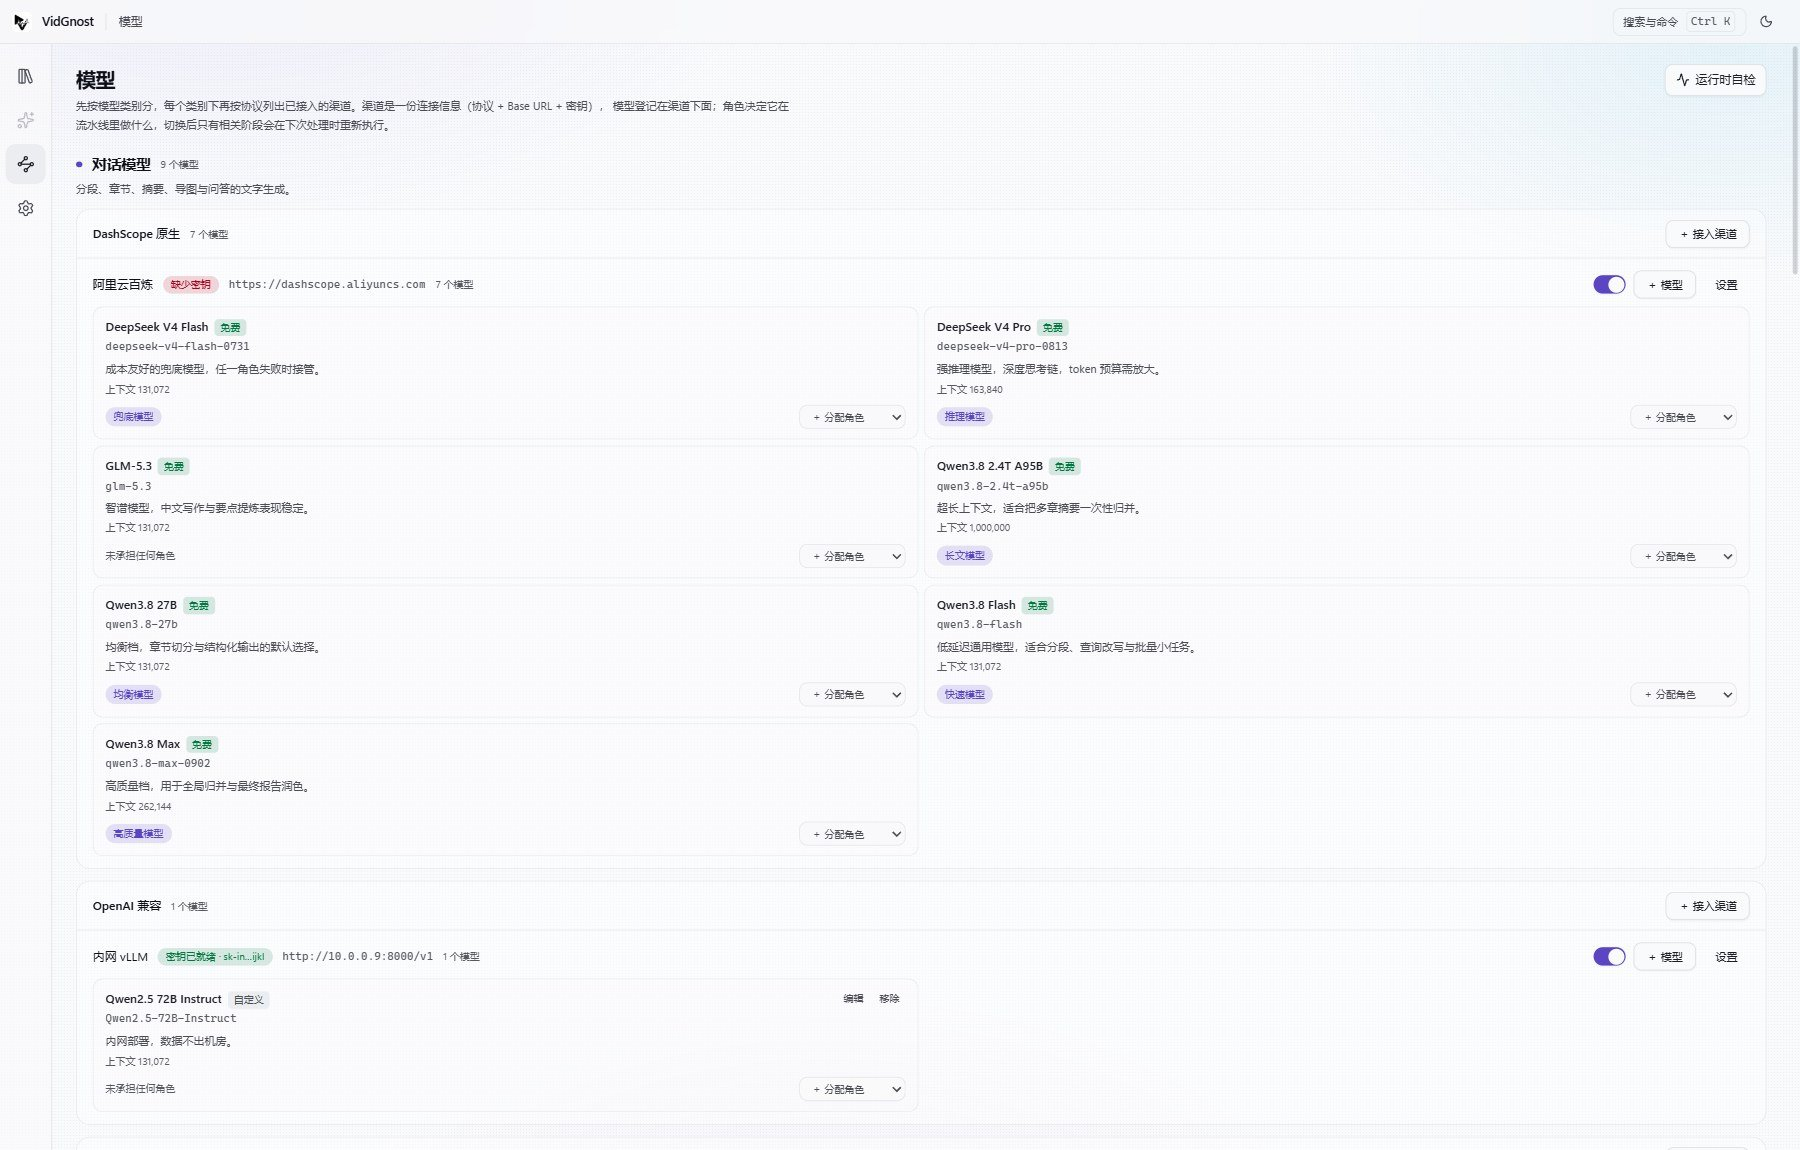
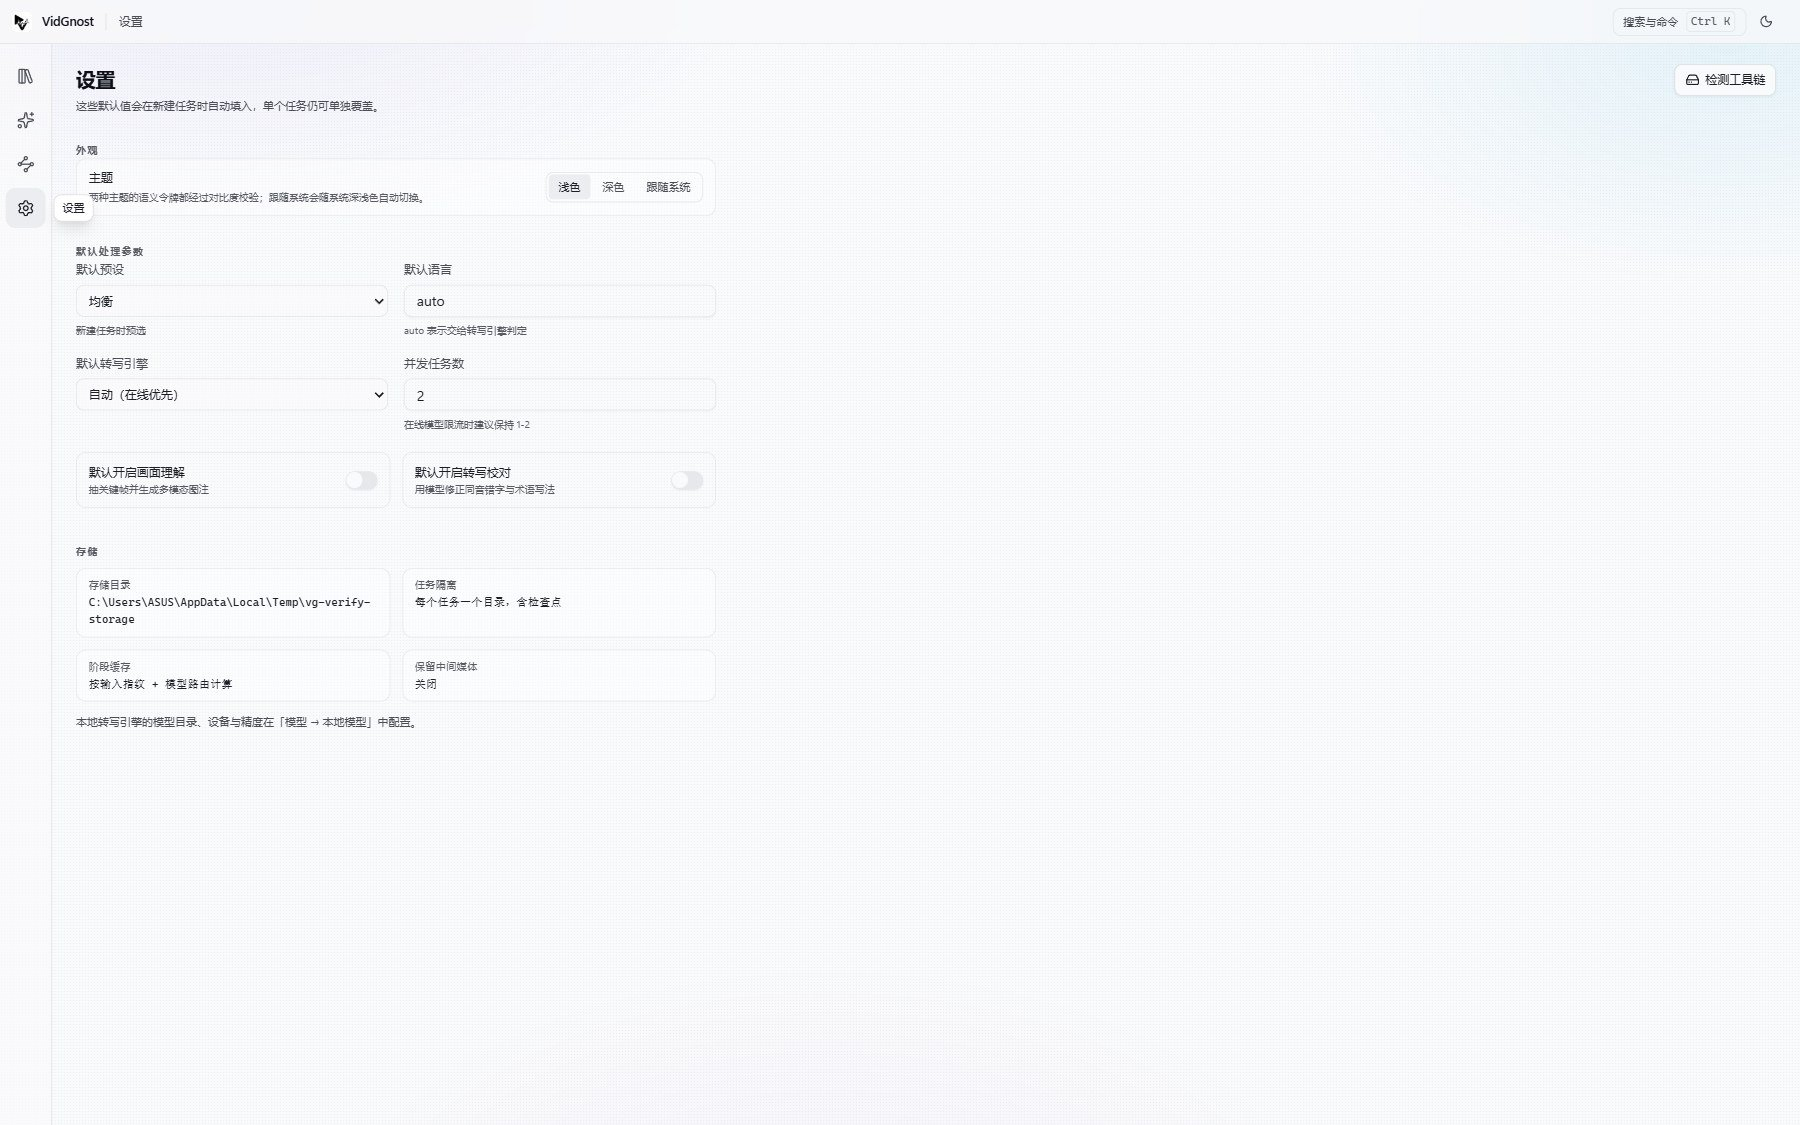
docs: 统一 README 截图为浅色整窗口
三张截图此前风格不一：工作台是深色，资产库是裁掉空白后的窄条，模型页刚换过。
视觉上不一致，读者也看不出界面在整窗口里的位置。这次全部改成浅色模式的整窗口截图，
与界面默认的浅色主题一致，尺寸统一为 1800×1125。

diff --git a/README.zh-CN.md b/README.zh-CN.md
@@ -132,7 +132,7 @@ OPENROUTER_API_KEY=sk-or-v1-xxxx   # OpenRouter（重排序）
 
 <p align="center">
   <img src="./assets/readme/library.jpg" width="100%"
-       alt="资产库：每个处理过的视频是一张卡片，带就绪度、标签、时长与规模" />
+       alt="资产库：左侧是主导航，顶部是搜索与新建任务，下面是任务卡片，卡片带状态、标签、时长与规模" />
 </p>
 
 - **资产库**：所有已处理视频的唯一入口，展示就绪度、标签与规模，支持搜索与删除。

diff --git a/README.md b/README.md
@@ -140,7 +140,7 @@ Four workspaces sharing one time coordinate system.
 
 <p align="center">
   <img src="./assets/readme/library.jpg" width="100%"
-       alt="Library: every processed video as a card with readiness, tags, duration and scale" />
+       alt="Library: main navigation on the left, search and the new-task button on top, and task cards below with status, tags, duration and scale" />
 </p>
 
 - **Library** — the single entry point: readiness, tags, scale, search and delete.
